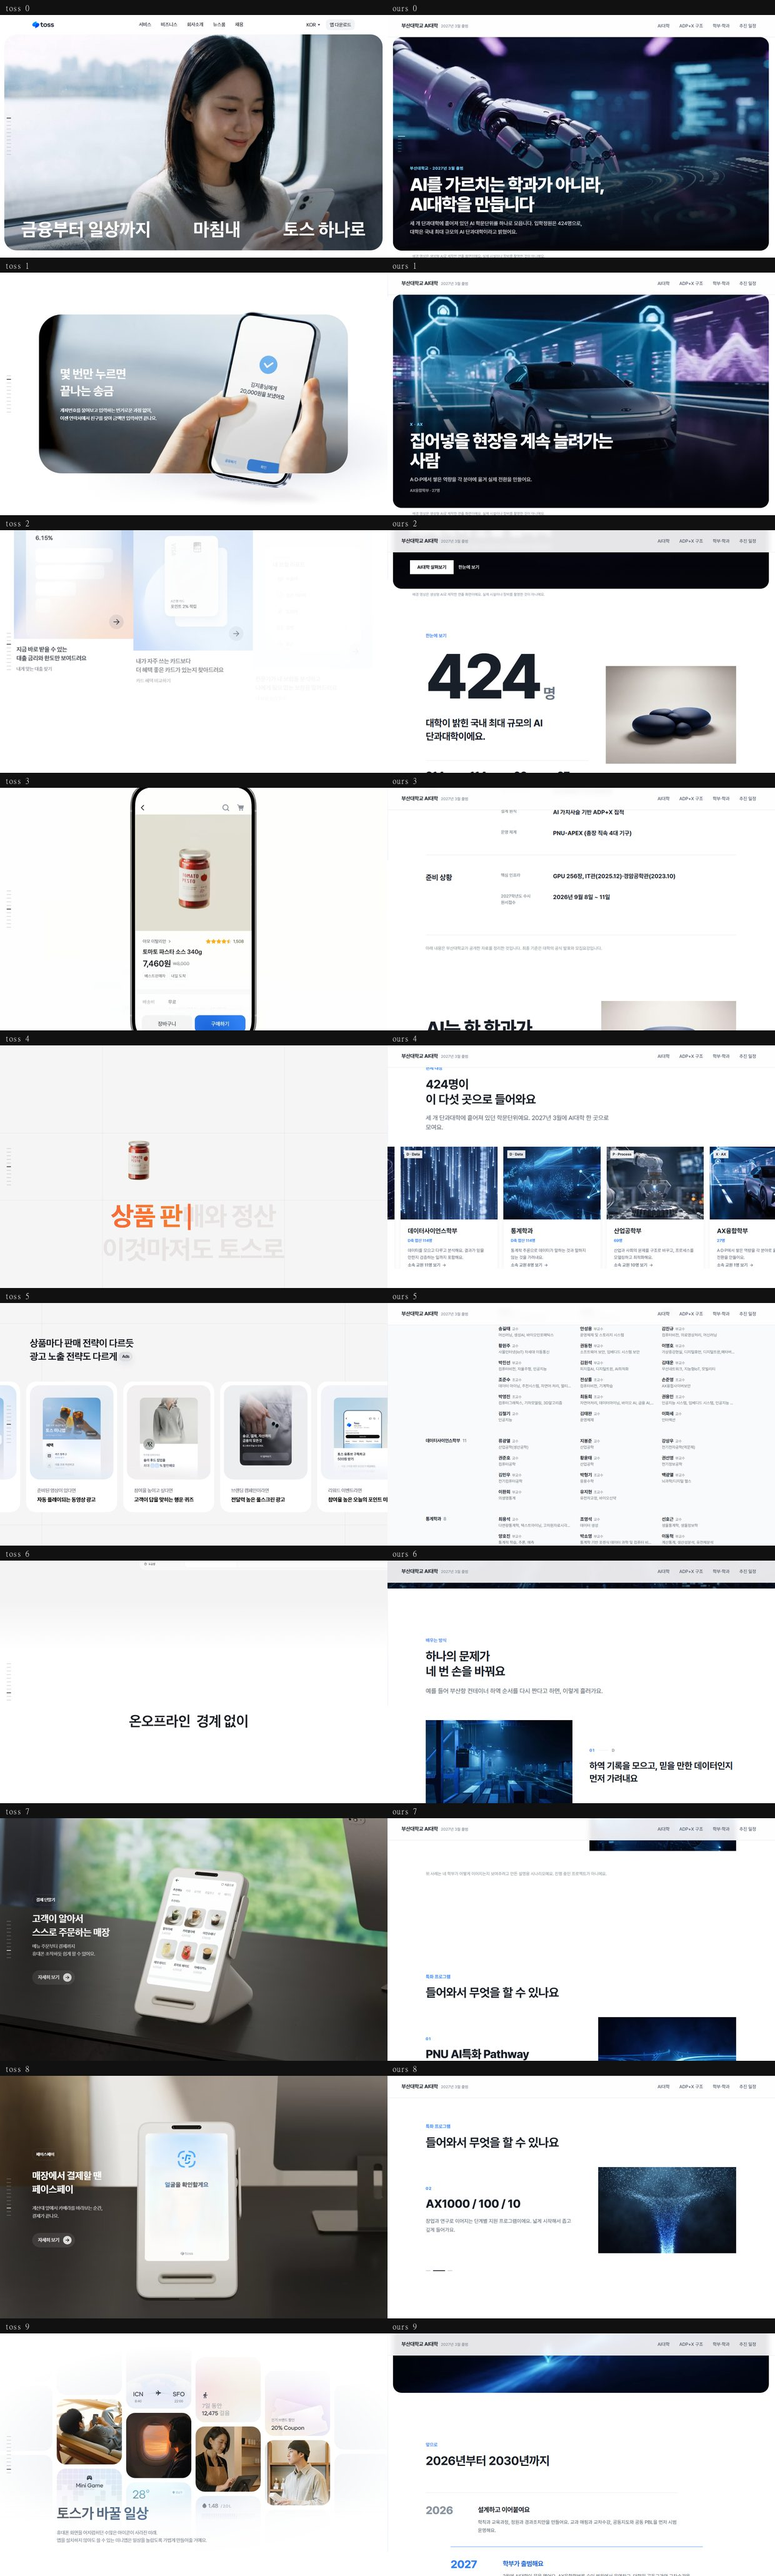
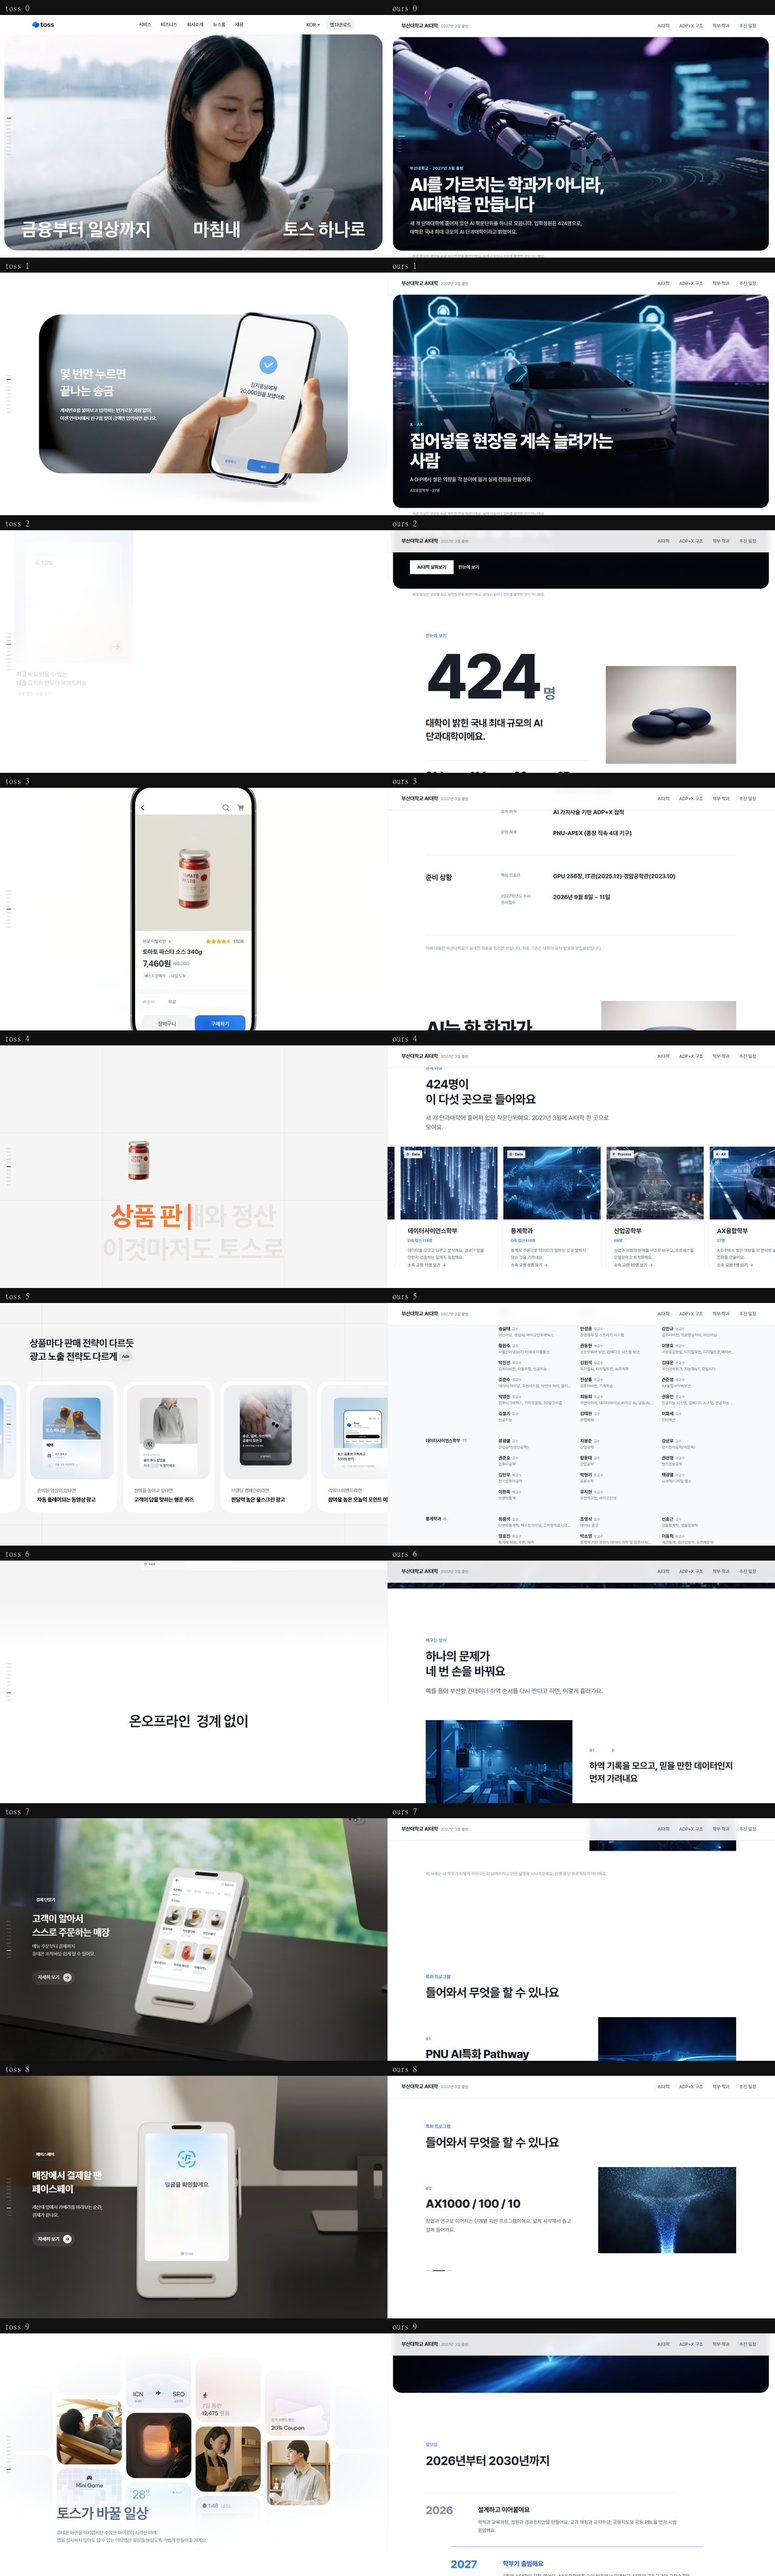
홈 팩트시트가 소속을 틀리게 말하던 것을 고친다
홈에 운영 체계를 넣으려고 데이터를 보다가 발견했다. 같은 사실이 사이트 안에서
두 가지로 적혀 있다.

  content.js:41  홈 팩트시트   PNU-APEX (총장 직속 4대 기구)
  content.js:174 운영 체계 절  총장 직속 3개 기구와 대학본부의 AX정보화혁신본부

원문을 확인했다.

  PNU-APEX → 총장직속 3대 기구, AI대학(학사)+AI융합교육원(교육)
  +장영실AI연구원(연구)과 AX정보화혁신본부(대학본부)가 유기적으로 연계

원문은 총장직속을 3개로 못박고 AX정보화혁신본부는 괄호로 대학본부 소속임을
밝힌다. 홈 표기가 넷을 하나로 뭉쳤다.

[이미 적발돼 있었다] docs/EVAL_CONTENT.md 가 이 오류의 출처까지 짚어뒀다 —
docs/_extract/SOURCE_FACTS.md:56 이 "총장 직속 4대 축" 으로 잘못 읽었고
content.js 가 그것을 충실히 옮겼다. 지시한 조치는 둘이었는데 개요 본문만
고쳐지고 홈 팩트시트와 추출 문서는 그대로 남았다. docs/EVAL_GROK.md 도
"검토자는 홈만 읽고 틀린 문장을 가져간다" 고 다시 짚었다.

29회차의 ApexScene 과 같다. 찾아서 적어두기까지 했는데 적용이 안 된 것이다.

둘 다 고쳤다. SOURCE_FACTS.md 는 원문 인용과 함께 정정 사유를 남겼다 —
그 문서가 다른 작업의 기준이라 고치지 않으면 같은 오류가 다시 퍼진다.

홈에 조직도를 한 번 더 그리는 대신 팩트 행에서 /ai-college#apex 로 보낸다.
소속 관계는 한 줄로 다 담기지 않고, 같은 그림을 두 페이지에 그리면 어느
한쪽이 또 뒤처진다.

Claude-Session: https://claude.ai/code/session_01DneFDYxx25DjwNJdj8uLH7

diff --git a/src/scenes/FactSheetScene.jsx b/src/scenes/FactSheetScene.jsx
@@ -1,3 +1,4 @@
+import { Link } from 'react-router-dom'
 import { SUMMARY } from '../data/content'
 import SceneVideo from '../components/SceneVideo'
 
@@ -139,6 +140,19 @@ export default function FactSheetScene() {
                     <dt className="text-[14px] font-semibold leading-[1.5] text-ink-faint">{row.k}</dt>
                     <dd className="text-[clamp(1.0625rem,1.5vw,1.25rem)] font-bold leading-[1.5] text-ink">
                       {row.v}
+                      {/*
+                        소속 관계처럼 한 줄로는 다 못 담는 항목은 그림이 있는
+                        자리로 보낸다. 홈에 조직도를 한 번 더 그리면 같은 그림이
+                        두 페이지에 생긴다.
+                      */}
+                      {row.to && (
+                        <Link
+                          to={row.to}
+                          className="ml-2 whitespace-nowrap align-middle text-[14px] font-semibold text-brand-strong underline-offset-4 hover:underline"
+                        >
+                          {row.toLabel} →
+                        </Link>
+                      )}
                     </dd>
                   </div>
                 ))}

diff --git a/src/data/content.js b/src/data/content.js
@@ -38,7 +38,16 @@ export const SUMMARY = {
     { k: '모집단위', v: 'AI컴퓨터공학부 214명 · 데이터사이언스학부·통계학과 114명 · 산업공학부 69명 · AX융합학부 27명' },
     { k: '대학이 밝힌 구성', v: '3개 학부와 17개 연계전공' },
     { k: '설계 원칙', v: 'AI 가치사슬 기반 ADP+X 집적' },
-    { k: '운영 체계', v: 'PNU-APEX (총장 직속 4대 기구)' },
+    // 원문은 「총장직속 3대 기구, AI대학+AI융합교육원+장영실AI연구원과
+    // AX정보화혁신본부(대학본부)가 유기적으로 연계」다. 넷을 하나로 뭉쳐
+    // 「총장 직속 4대 기구」라고 적으면 소속을 틀리게 말한다.
+    // 근거: docs/EVAL_CONTENT.md, docs/_extract/ai_daehak_proposal.txt
+    {
+      k: '운영 체계',
+      v: 'PNU-APEX — 총장 직속 3개 기구와 대학본부 AX정보화혁신본부',
+      to: '/ai-college#apex',
+      toLabel: '조직 체계 보기',
+    },
     { k: '핵심 인프라', v: 'GPU 256장, IT관(2025.12)·경암공학관(2023.10)' },
     { k: '2027학년도 수시 원서접수', v: '2026년 9월 8일 ~ 11일' },
   ],
